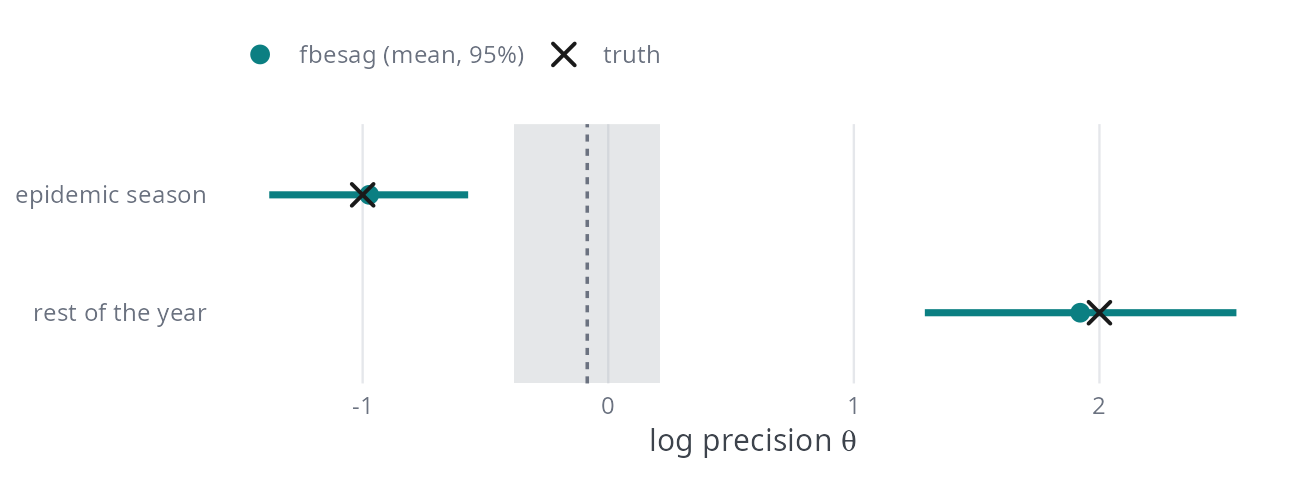
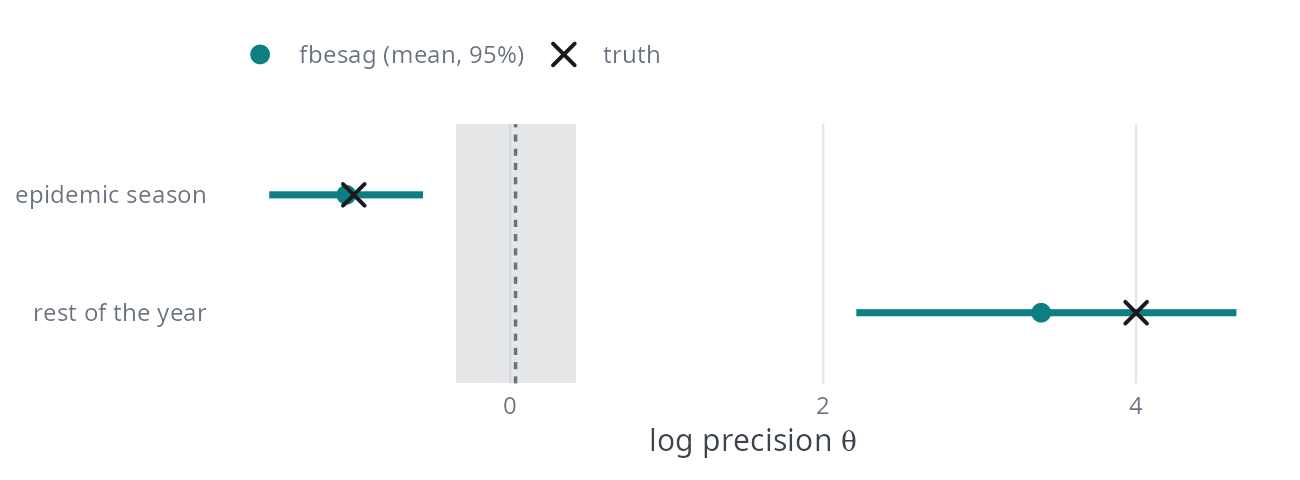
fbesag in time: an example where the periods matter

diff --git a/docs/fbesag-time.html b/docs/fbesag-time.html
@@ -45,7 +45,7 @@
 
     <section>
       <h2>Example</h2>
-      <p>Four years of simulated weekly counts: rough in weeks 6 to 26 ($\theta = -1$), smooth otherwise ($\theta = 2$).</p>
+      <p>Four years of simulated weekly counts, 20 expected cases a week: rough in weeks 6 to 26 ($\theta = -1$), very smooth otherwise ($\theta = 4$).</p>
       <pre><code>library(INLA)
 library(gmrfs)
 library(Matrix)
@@ -59,10 +59,10 @@ W      &lt;- sparseMatrix(i = 1:(n - 1), j = 2:n, x = 1, dims = c(n, n), symmetr
 m_one    &lt;- fbesag(W, id = rep(1, n))               <span class="code-cmt"># one precision: a random walk</span>
 m_season &lt;- fbesag(W, id = season, sd_gamma = 1)    <span class="code-cmt"># one precision for the season, one for the rest</span>
 
-<span class="code-cmt">## simulated: rough in the season, smooth in the rest of the year</span>
+<span class="code-cmt">## simulated: rough in the season, very smooth in the rest of the year</span>
 set.seed(3)
-x &lt;- as.numeric(gmrf_sample(m_season, theta = c(-1, 2)))
-E &lt;- rep(50, n)
+x &lt;- as.numeric(gmrf_sample(m_season, theta = c(-1, 4)))
+E &lt;- rep(20, n)
 d &lt;- list(y = rpois(n, E * exp(x)), E = E, idx = 1:n)
 
 fit_one    &lt;- inla(y ~ 1 + f(idx, model = m_one),    family = "poisson", E = E, data = d)
@@ -71,21 +71,33 @@ fit_season &lt;- inla(y ~ 1 + f(idx, model = m_season), family = "poisson", E = 
 round(fit_season$summary.hyperpar[, c("mean", "0.025quant", "0.975quant")], 2)
 fit_season$mlik[2] - fit_one$mlik[2]               <span class="code-cmt"># log Bayes factor for the two periods</span></code></pre>
       <pre class="output"><code>                mean 0.025quant 0.975quant
-Theta1 for idx -0.97      -1.38      -0.57
-Theta2 for idx  1.92       1.29       2.56
-[1] 29.52448</code></pre>
+Theta1 for idx -1.05      -1.54      -0.56
+Theta2 for idx  3.39       2.21       4.64
+[1] 30.38411</code></pre>
       <p>Both intervals cover the truth.</p>
     </section>
 
     <section>
       <h2>Precisions</h2>
-      <figure><img src="images/fbesag_time_theta.png" alt="Log precision of the epidemic season and of the rest of the year from fbesag, against the true values and the single precision of a random walk"><figcaption>fbesag (95% intervals) and the truth. Grey: one precision, $-0.09$ ($-0.38$ to $0.21$).</figcaption></figure>
+      <figure><img src="images/fbesag_time_theta.png" alt="Log precision of the epidemic season and of the rest of the year from fbesag, against the true values and the single precision of a random walk"><figcaption>fbesag (95% intervals) and the truth. Grey: one precision, $0.03$ ($-0.35$ to $0.42$).</figcaption></figure>
     </section>
 
     <section>
       <h2>Fit</h2>
-      <figure><img src="images/fbesag_time_fit.png" alt="Simulated weekly log relative risk over four years, with the true curve and the fits of a random walk with one precision and of fbesag"><figcaption>Truth, $\log(y/E)$ (grey) and posterior means. Shaded: the season.</figcaption></figure>
-      <p>RMSE outside the season: 0.081 (one precision), 0.066 (fbesag); in the season: 0.145, 0.125.</p>
+      <figure><img src="images/fbesag_time_fit.png" alt="Simulated weekly log relative risk over four years: the fits of a random walk with one precision and of fbesag, with 95% intervals and the truth"><figcaption>Posterior mean and 95% interval of $x_t$, the truth (black) and $\log(y/E)$ (grey). Shaded: the season.</figcaption></figure>
+      <p>One precision smooths the same amount everywhere: in the season its intervals are too narrow, and outside it its estimate follows the noise, with intervals twice as wide as those of fbesag.</p>
+      <div class="table-wrap">
+      <table>
+        <thead><tr><th>period</th><th>model</th><th class="num">RMSE</th><th class="num nw">95% interval covers the truth</th><th class="num nw">interval width</th></tr></thead>
+        <tbody>
+          <tr><td><strong>season</strong></td><td class="nw">one precision</td><td class="num">0.203</td><td class="num">0.82</td><td class="num">0.55</td></tr>
+          <tr><td></td><td>fbesag</td><td class="num">0.172</td><td class="num">0.95</td><td class="num">0.66</td></tr>
+          <tr><td class="nw"><strong>rest of the year</strong></td><td class="nw">one precision</td><td class="num">0.115</td><td class="num">0.96</td><td class="num">0.53</td></tr>
+          <tr><td></td><td>fbesag</td><td class="num">0.065</td><td class="num">0.98</td><td class="num">0.26</td></tr>
+        </tbody>
+      </table>
+      </div>
+      <p>RMSE: root mean squared error of the posterior mean of $x_t$. Coverage: share of the weeks whose 95% interval contains the true $x_t$. Width: mean width of the intervals.</p>
     </section>
   </main>
 
